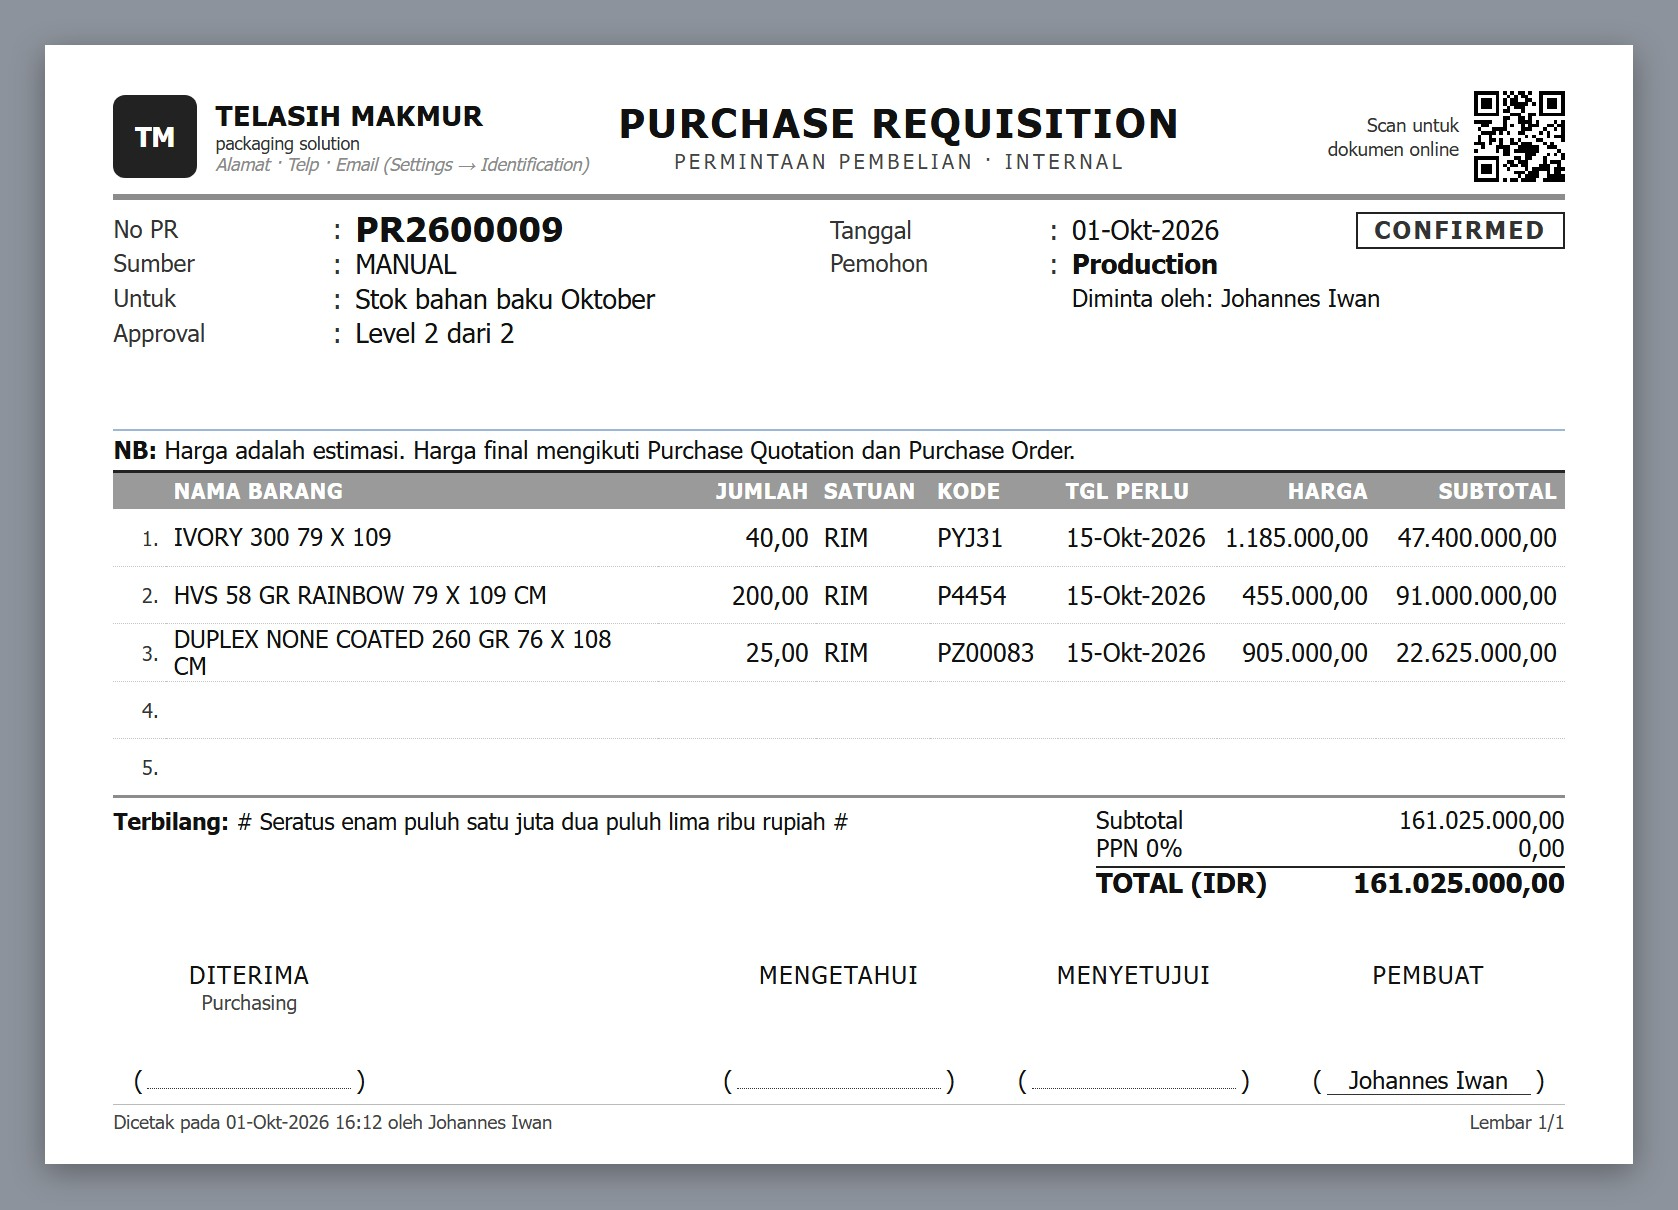
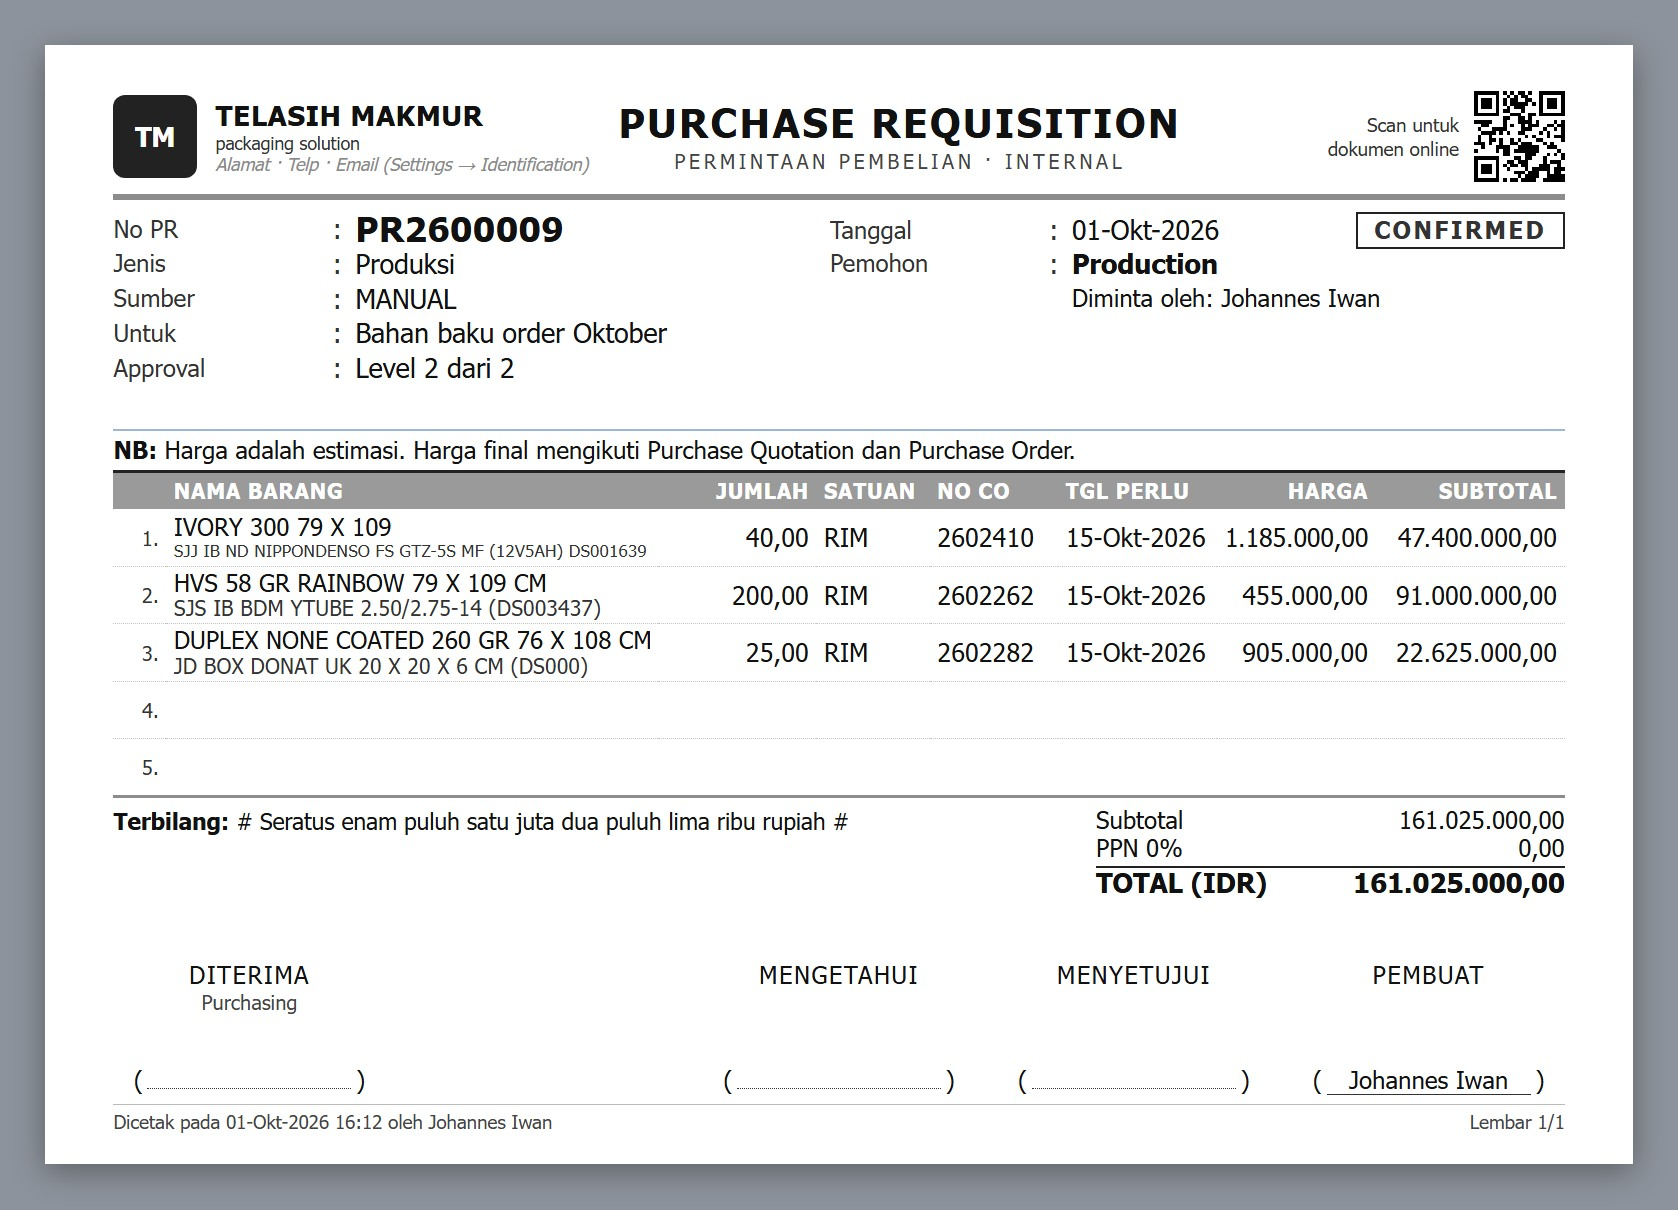
Print mockups: Purchase Requisition production (No CO + product name) and non-production samples
User 2026-10-01: PR is either production (needs CO number and product name) or non-production (stationery,
computers). CO number takes the old Kode column, product name goes on the second line of the item name,
so estimated Harga / Subtotal keep their fixed positions.

diff --git a/docs/mockups/print_doc/samples.js b/docs/mockups/print_doc/samples.js
@@ -125,13 +125,23 @@ const SAMPLES = {
         more: [],
     },
     PurchaseRequisition: {
-        data: {...PRINTED, number: 'PR2600009', date: '2026-10-01', status: 'CONFIRMED', source: 'MANUAL', purpose: 'Stok bahan baku Oktober', createdBy: 'Johannes Iwan',
+        // Produksi: tiap baris terikat ke baris CO (pr_line.i_co_line_id) -> NO CO + nama product (baris kedua).
+        data: {...PRINTED, number: 'PR2600009', date: '2026-10-01', status: 'CONFIRMED', category: 'Produksi', source: 'MANUAL', purpose: 'Bahan baku order Oktober', createdBy: 'Johannes Iwan',
             approval: 'Level 2 dari 2', ppn: 0,
             party: {name: 'Production', lines: ['Diminta oleh: Johannes Iwan']},
-            rows: [{name: 'IVORY 300 79 X 109', qty: 40, unit: 'RIM', code: 'PYJ31', need_date: '2026-10-15', price: 1185000, subtotal: 47400000},
-                {name: 'HVS 58 GR RAINBOW 79 X 109 CM', qty: 200, unit: 'RIM', code: 'P4454', need_date: '2026-10-15', price: 455000, subtotal: 91000000},
-                {name: 'DUPLEX NONE COATED 260 GR 76 X 108 CM', qty: 25, unit: 'RIM', code: 'PZ00083', need_date: '2026-10-15', price: 905000, subtotal: 22625000}]},
+            rows: [{name: 'IVORY 300 79 X 109', sub: 'SJJ IB ND NIPPONDENSO FS GTZ-5S MF (12V5AH) DS001639', qty: 40, unit: 'RIM', co_no: '2602410', need_date: '2026-10-15', price: 1185000, subtotal: 47400000},
+                {name: 'HVS 58 GR RAINBOW 79 X 109 CM', sub: 'SJS IB BDM YTUBE 2.50/2.75-14 (DS003437)', qty: 200, unit: 'RIM', co_no: '2602262', need_date: '2026-10-15', price: 455000, subtotal: 91000000},
+                {name: 'DUPLEX NONE COATED 260 GR 76 X 108 CM', sub: 'JD BOX DONAT UK 20 X 20 X 6 CM (DS000)', qty: 25, unit: 'RIM', co_no: '2602282', need_date: '2026-10-15', price: 905000, subtotal: 22625000}]},
         more: [],
+        cases: {
+            nonprod: {...PRINTED, number: 'PR2600010', date: '2026-10-01', status: 'CONFIRMED', category: 'Non Produksi', source: 'MANUAL', purpose: 'Kebutuhan kantor Oktober', createdBy: 'Johannes Iwan',
+                approval: 'Level 1 dari 2', ppn: 0,
+                party: {name: 'General Affairs', lines: ['Diminta oleh: Johannes Iwan']},
+                rows: [{name: 'Kertas HVS A4 80 gr', qty: 20, unit: 'RIM', need_date: '2026-10-08', price: 52000, subtotal: 1040000},
+                    {name: 'Toner printer HP 107A', qty: 4, unit: 'PCS', need_date: '2026-10-08', price: 950000, subtotal: 3800000},
+                    {name: 'Laptop 14 inci Core i5 / 16 GB / SSD 512 GB', sub: 'Untuk staf Accounting, pengganti unit rusak', qty: 1, unit: 'UNIT', need_date: '2026-10-20', price: 11500000, subtotal: 11500000},
+                    {name: 'Mouse wireless', qty: 5, unit: 'PCS', need_date: '2026-10-08', price: 85000, subtotal: 425000}]},
+        },
     },
 };
 SAMPLES.CustomerOrderNoPrice = {data: SAMPLES.CustomerOrder.data, more: SAMPLES.CustomerOrder.more};

diff --git a/docs/mockups/print_doc/documents.js b/docs/mockups/print_doc/documents.js
@@ -112,13 +112,16 @@ PrintDoc.register(class PurchaseRequisition extends PrintDoc {
     static subtitle = 'Permintaan Pembelian &middot; Internal';
     static numberLabel = 'No PR';
     static refs = [
+        {key: 'category', label: 'Jenis'},
         {key: 'source', label: 'Sumber'},
         {key: 'purpose', label: 'Untuk'},
         {key: 'approval', label: 'Approval'},
     ];
     static partyLabel = 'Pemohon';
     static nb = '<b>NB:</b>&nbsp;Harga adalah estimasi. Harga final mengikuti Purchase Quotation dan Purchase Order.';
-    static extra = [{key: 'code', label: 'KODE', width: 17}, {key: 'need_date', label: 'TGL PERLU', width: 21, type: 'date'}];
+    // PR produksi: NO CO di kolom, nama product di baris kedua nama barang (`sub`), supaya HARGA dan SUBTOTAL estimasi
+    // tetap muat di posisi tetap. PR non produksi (ATK, komputer): NO CO kosong, baris kedua = keterangan bila ada.
+    static extra = [{key: 'co_no', label: 'NO CO', width: 17}, {key: 'need_date', label: 'TGL PERLU', width: 21, type: 'date'}];
     static priced = true;
     static receivers = [['Diterima', 'Purchasing']];
 });

diff --git a/docs/mockups/print_doc/view.html b/docs/mockups/print_doc/view.html
@@ -6,13 +6,13 @@
 <link rel="stylesheet" href="printdoc.css">
 </head>
 <body>
-<!-- Pakai: view.html?doc=SuratJalan  (&case=a4 = contoh lebih dari 5 baris, &dev=1 = penanda deviasi) -->
+<!-- Pakai: view.html?doc=SuratJalan  (&case=a4 = contoh lebih dari 5 baris, &case=nama = data lain di `cases`, &dev=1 = penanda deviasi) -->
 <script src="printdoc.js"></script>
 <script src="documents.js"></script>
 <script src="samples.js"></script>
 <script>
     const q = new URLSearchParams(location.search), name = q.get('doc') || 'SuratJalan', s = SAMPLES[name], a4 = q.get('case') === 'a4';
-    const data = a4 ? (s.alt ?? {...s.data, rows: [...s.data.rows, ...s.more]}) : s.data;
+    const data = a4 ? (s.alt ?? {...s.data, rows: [...s.data.rows, ...s.more]}) : s.cases?.[q.get('case')] ?? s.data;
     document.title = `${name} - ${data.number}`;
     document.body.insertAdjacentHTML('afterbegin', new PrintDoc.registry[name](data).render());
     PrintDoc.fit(document.body);

diff --git a/docs/globaluserrules.md b/docs/globaluserrules.md
@@ -171,7 +171,9 @@
     **Surat Jalan punya kolom Berat (kg) dan Ikat**; Ikat hanya terisi bila barang dikemas per ikat (sumber data belum ada
     di database — perlu input sebelum dipasang ke aplikasi). **Customer Order punya 2 format cetak: dengan harga dan
     tanpa harga** (tanpa harga = kolom Harga/Subtotal, total, dan Terbilang tidak dicetak). **Nama Pembuat di tanda tangan
-    dan nama "oleh" di kaki dokumen harus sama** (satu sumber: nama orang pembuat dokumen).
+    dan nama "oleh" di kaki dokumen harus sama** (satu sumber: nama orang pembuat dokumen). **Purchase Requisition ada
+    dua jenis: Produksi** (kolom No CO + nama product di baris kedua nama barang) **dan Non Produksi** (ATK, komputer;
+    No CO kosong); harga estimasi tetap di kolom Harga / Subtotal (usulan tata letak, menunggu OK user).
 25. **Form ProDev berlatar putih — user 2026-10-01:** workbench Imposition (dulu gelap/navy) memakai **latar putih** seperti
     layar lain, warnanya lewat token tema DevLib (bukan hex). Tata letak dan isi tidak berubah; area gambar berlatar abu muda
     supaya lembar cetak (putih) tetap terlihat. Pratinjau & cetak Master Card tidak berubah.
